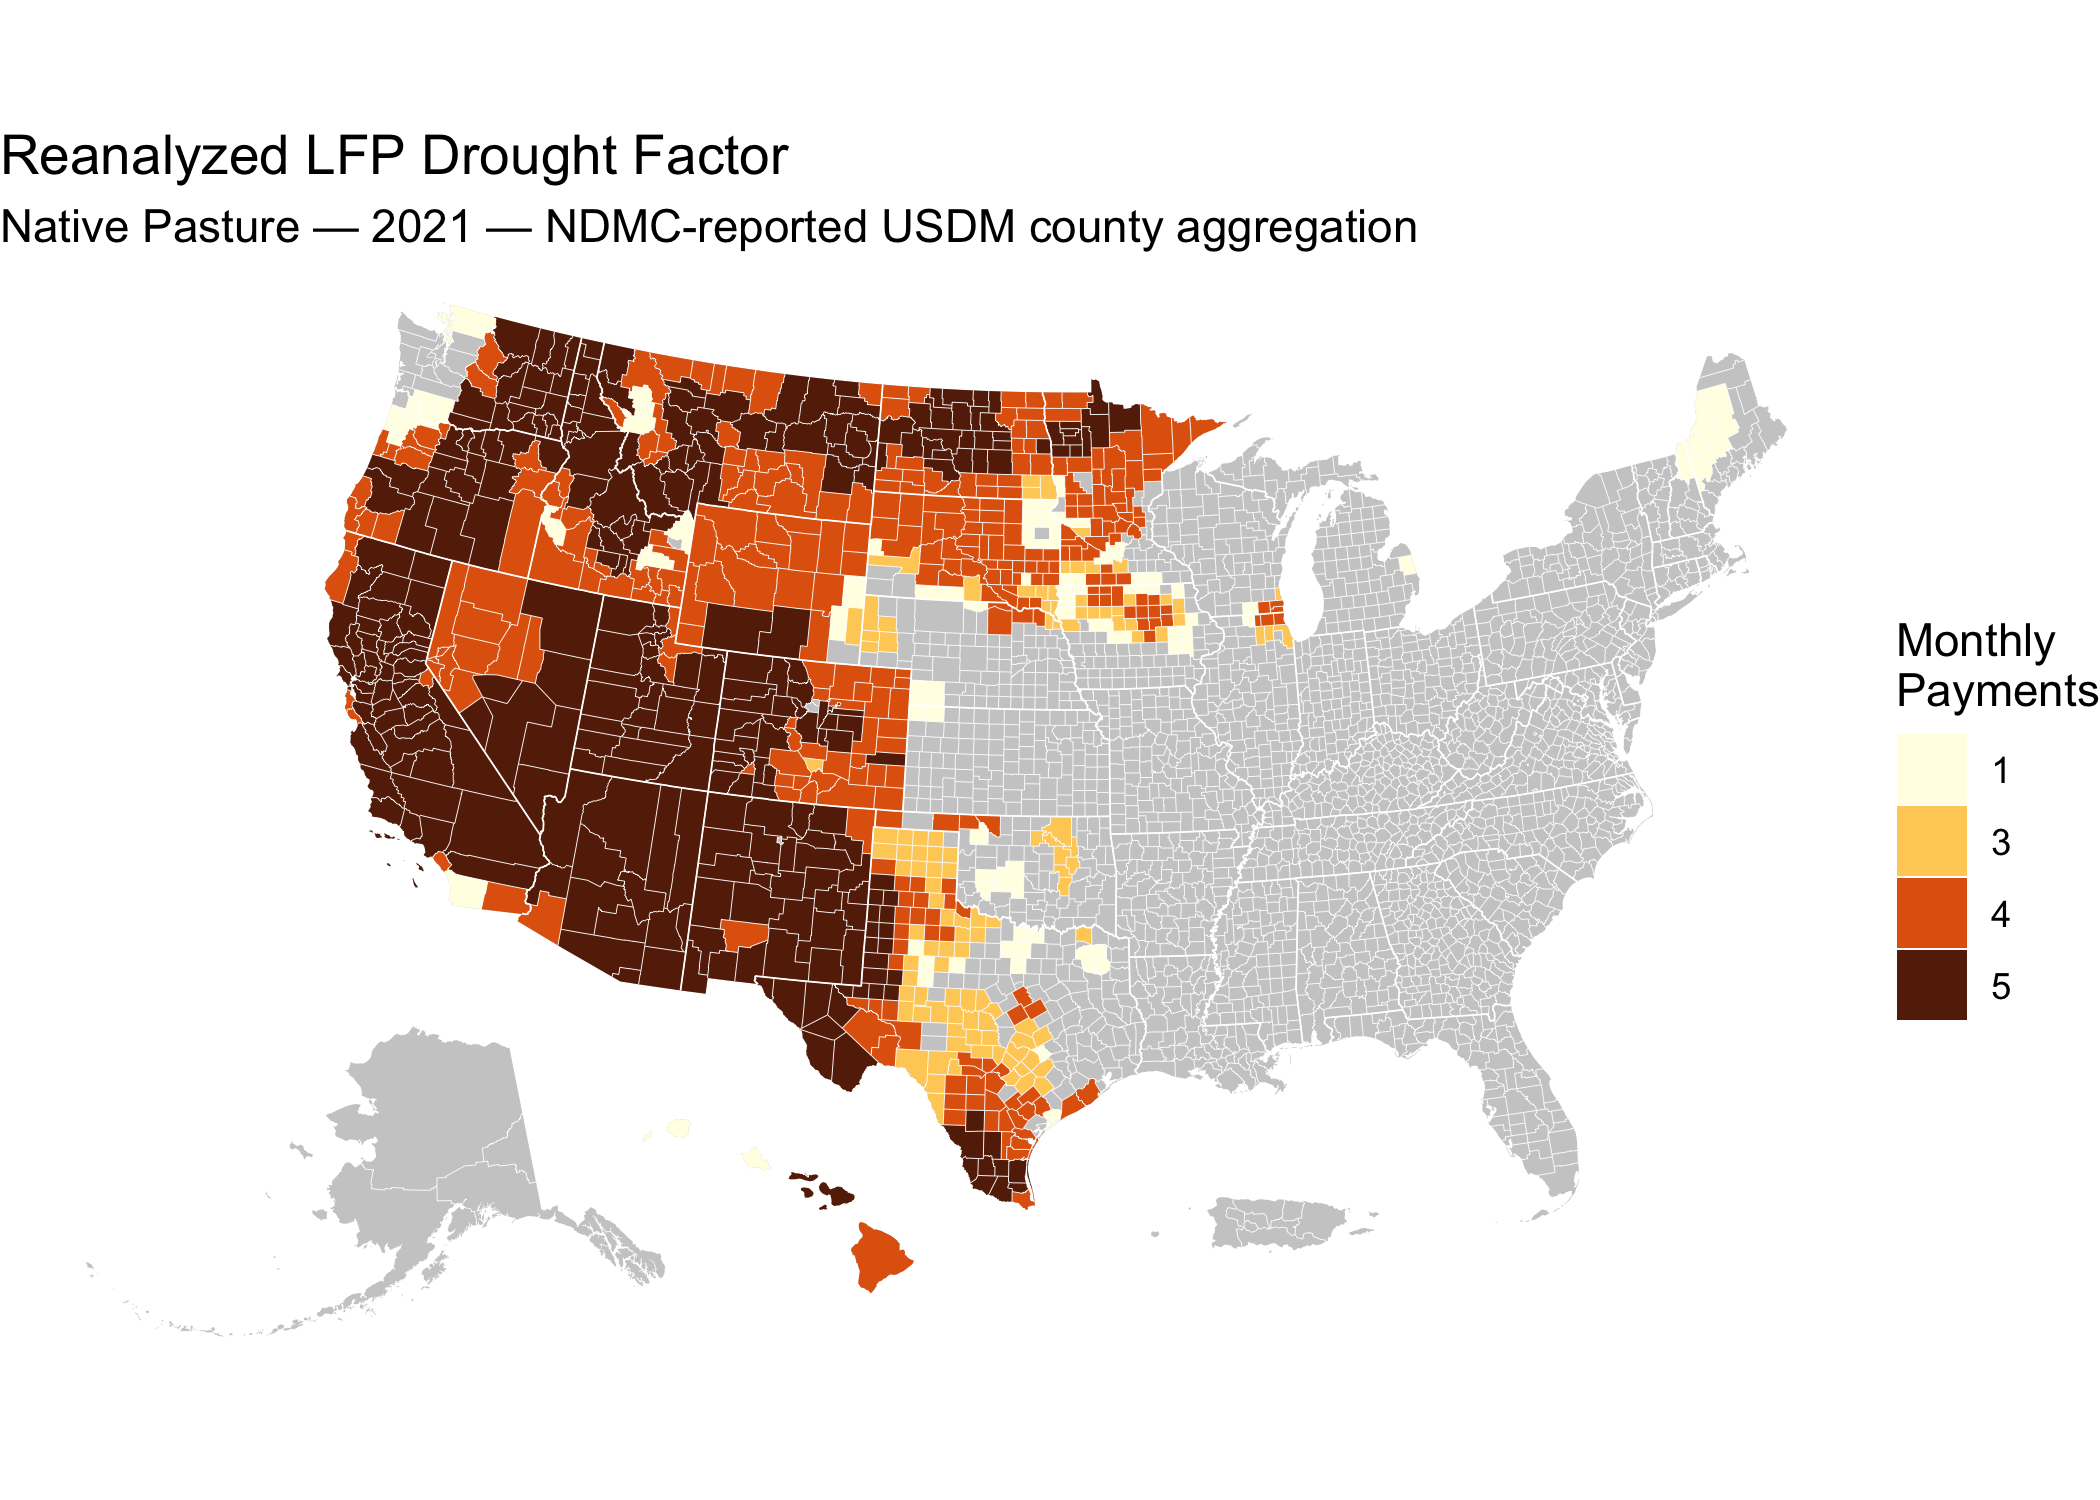
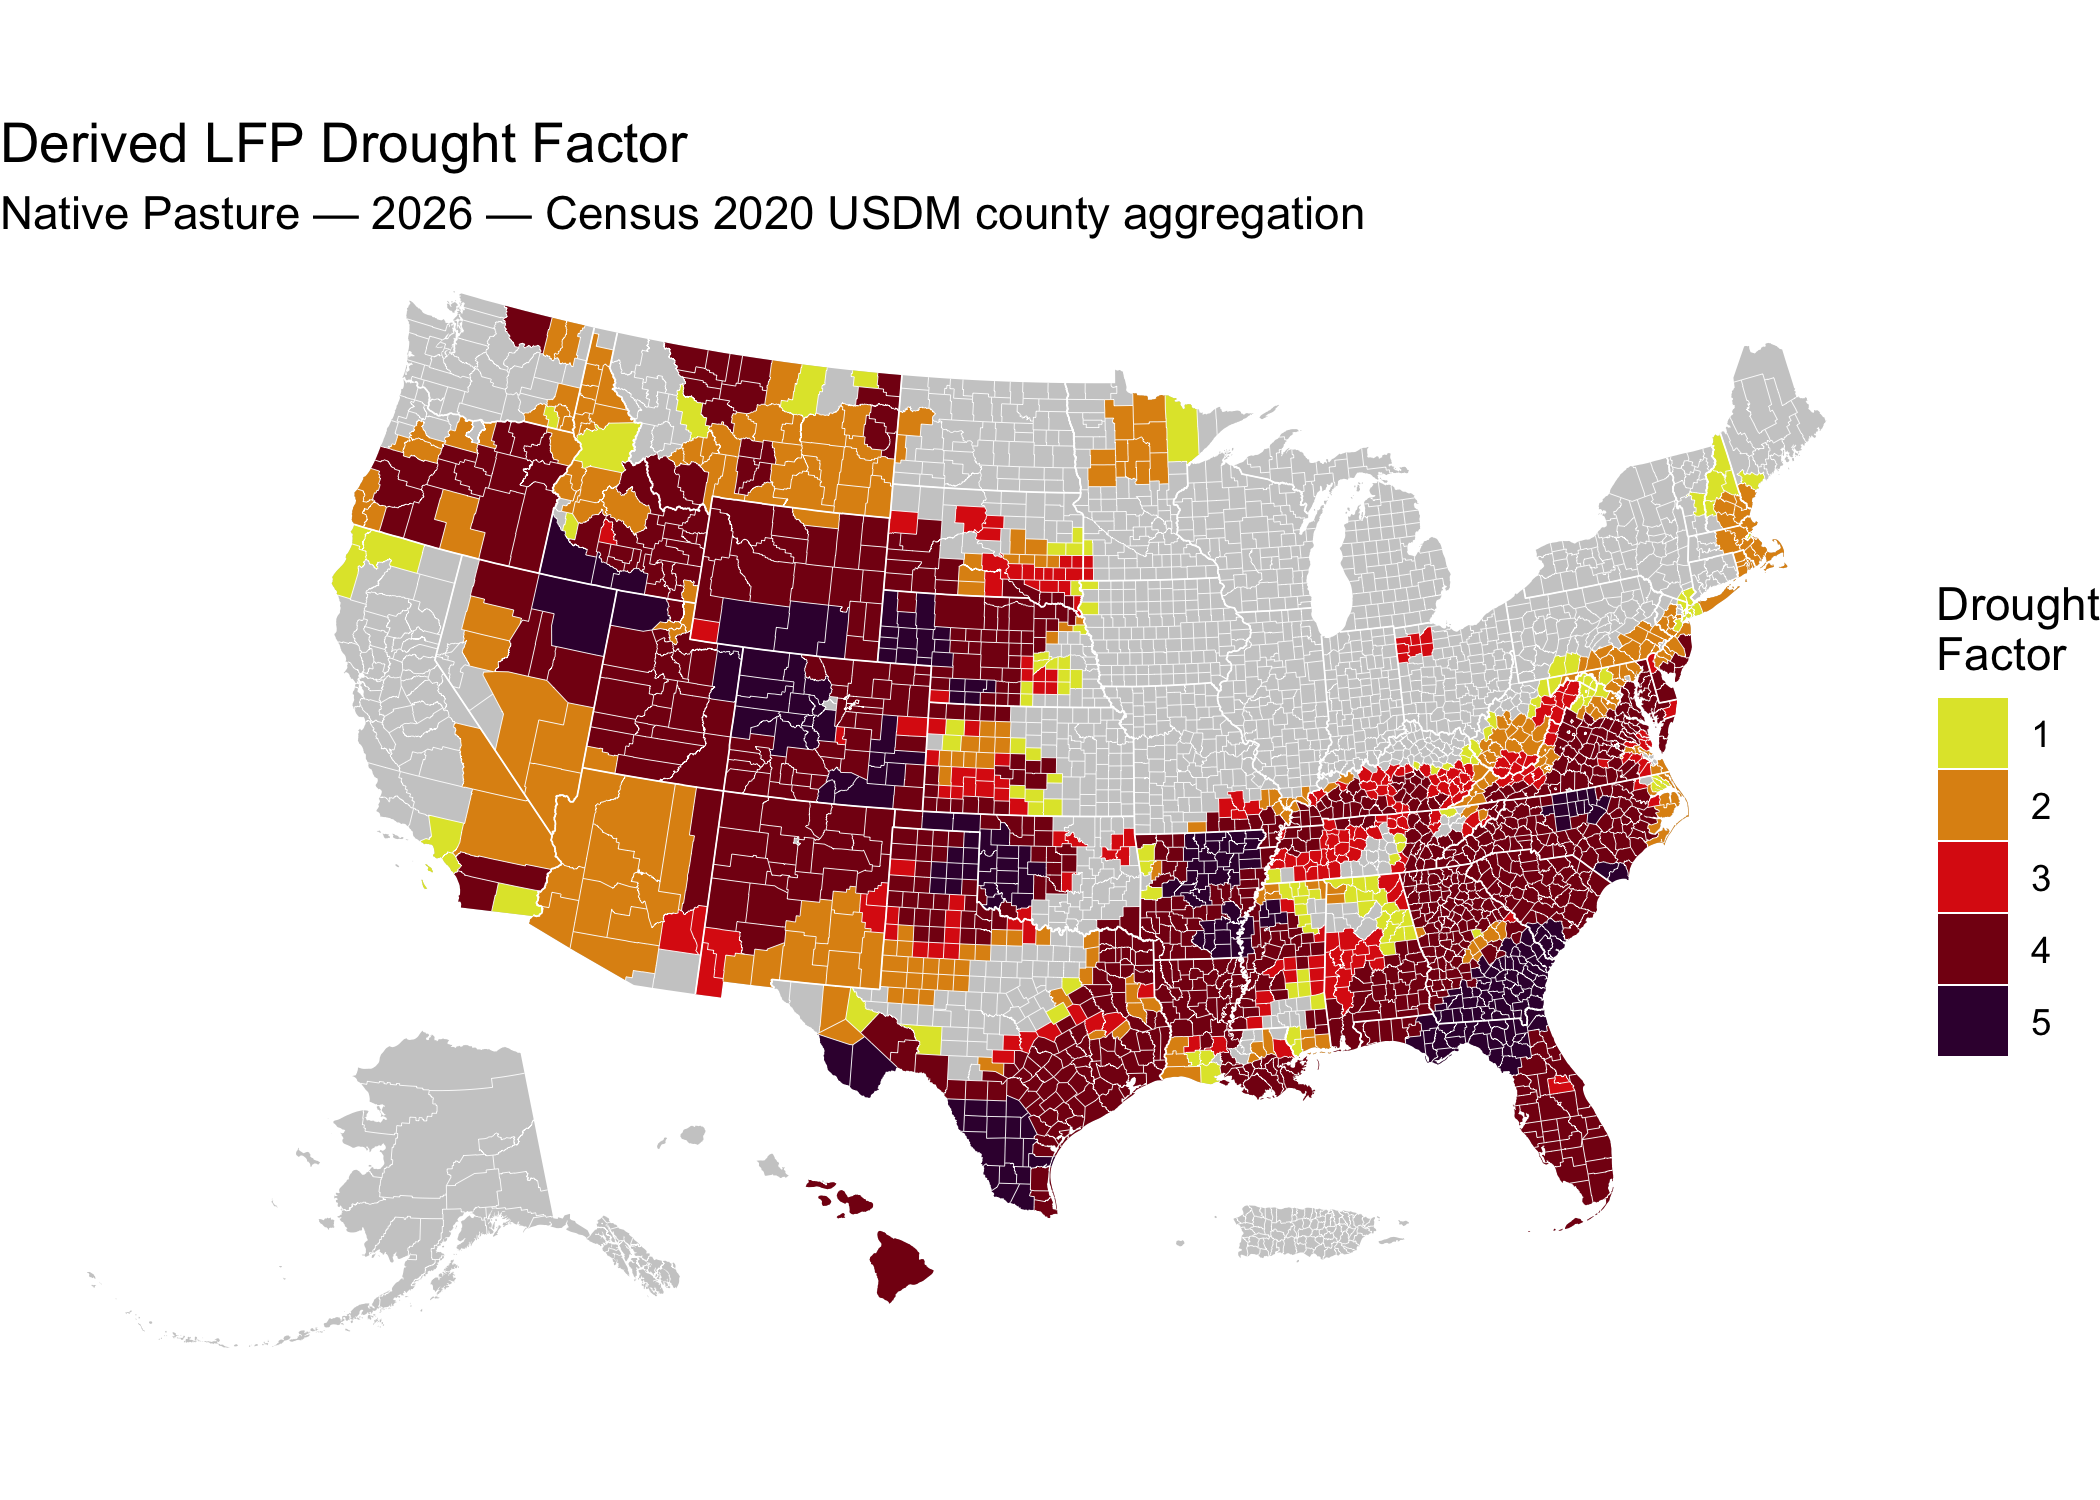
Map 2026 Native Pasture on Census boundaries in the README example
Replaces the 2021 NDMC-reported map drawn on FSA county geometry with the
2026 Native Pasture drought factor on Census 2020 boundaries, matching the
figure in fsa-lfp-eligibility: tigris county geometry with Alaska, Hawaii
and Puerto Rico shifted, FSA's own LFP colour ramp, and the same layer
order and theme.

Program year 2026 exercises the split D2 tier, so all five factors appear
including the 2-payment tier that exists only from 2026. Reducing to
Census county grain takes the highest factor across the FSA offices that
share a county -- the mirror of the reduction the previous example made,
and one of the rules the README describes.

The legend reads "Drought Factor" rather than "Payment Months": this
archive carries no Payment Factor, and the README is explicit that the
drought factor is not the payable amount.

Drops khroma from the workflow, since the new example uses
scale_fill_manual and nothing else in the repo needs it.

diff --git a/README.md b/README.md
@@ -383,37 +383,48 @@ the published URL
 # Load required libraries
 library(sf)
 library(ggplot2) # For plotting
+library(tigris)  # For county boundaries
 library(rmapshaper) # For innerlines function
 
 ## Get the derived eligibility data
 lfp <- arrow::read_parquet("fsa-lfp-eligibility-derived.parquet")
 
-## FSA county boundaries, already simplified and with Alaska and Hawaii inset
 counties <-
-  sf::read_sf(
-    "/vsicurl/https://data.sustainable-fsa.com/fsa-counties-dd22/fsa-counties-dd22.topojson",
-    layer = "counties"
+  tigris::counties(cb = TRUE,
+                   resolution = "5m",
+                   progress_bar = FALSE) |>
+  dplyr::filter(
+    !(STATE_NAME %in% c("Guam",
+                        "American Samoa",
+                        "United States Virgin Islands",
+                        "Commonwealth of the Northern Mariana Islands"))
   ) |>
-  sf::st_set_crs("EPSG:4326") |>
-  sf::st_transform("EPSG:5070")
+  sf::st_cast("POLYGON", warn = FALSE, do_split = TRUE) |>
+  tigris::shift_geometry() |>
+  dplyr::group_by(STATEFP, COUNTYFP) |>
+  dplyr::summarise(.groups = "drop") |>
+  sf::st_cast("MULTIPOLYGON")
 
-## The 2021 Native Pasture drought factor under the NDMC-reported aggregation,
-## reduced to FSA county grain by taking the highest factor across the Census
-## counties an FSA office covers. That `max()` is a choice — see above.
+## The 2026 Native Pasture drought factor on Census 2020 boundaries, reduced to
+## Census county grain by taking the highest factor across the FSA offices that
+## share a county. That `max()` is one of the reduction rules described above.
 lfp_counties <-
   lfp |>
   dplyr::filter(`Pasture Type` == "Native Pasture",
-                `Program Year` == 2021,
-                source == "usdm-counties-reported") |>
-  dplyr::group_by(id = `FSA County`) |>
+                `Program Year` == 2026,
+                source == "usdm-counties-census-2020") |>
+  dplyr::group_by(id = FIPS) |>
   dplyr::summarise(`Drought Factor` = max(`Drought Factor`),
                    .groups = "drop") |>
-  # An ordered factor, not an integer: the ladder skips 2 in this era, so a
-  # continuous scale would imply a tier that does not exist.
   dplyr::mutate(
-    `Drought Factor` = factor(`Drought Factor`, ordered = TRUE)
+    `Drought Factor` = factor(`Drought Factor`,
+                              levels = 1:5,
+                              ordered = TRUE)
   ) |>
-  dplyr::left_join(counties) |>
+  dplyr::left_join(
+    counties |>
+      dplyr::transmute(id = paste0(STATEFP, COUNTYFP))
+    ) |>
   sf::st_as_sf()
 
 # Plot the map
@@ -423,22 +434,31 @@ ggplot(counties) +
           color = NA) +
   geom_sf(data = lfp_counties,
           aes(fill = `Drought Factor`),
-          color = NA) +
+          color = NA,
+          show.legend = TRUE) +
   geom_sf(data = rmapshaper::ms_innerlines(counties),
           fill = NA,
           color = "white",
           linewidth = 0.1) +
   geom_sf(data = counties |>
-            dplyr::group_by(state) |>
+            dplyr::group_by(STATEFP) |>
             dplyr::summarise() |>
             rmapshaper::ms_innerlines(),
           fill = NA,
           color = "white",
           linewidth = 0.2) +
-  khroma::scale_fill_YlOrBr(discrete = TRUE,
-                            name = "Monthly\nPayments") +
-  labs(title = "Reanalyzed LFP Drought Factor",
-       subtitle = "Native Pasture — 2021 — NDMC-reported USDM county aggregation") +
+  # Use the same color scale used by the LFP
+  # https://www.fsa.usda.gov/documents/native-pasture-2024-lfp-01-23-25
+  scale_fill_manual(
+    values = c("1" = "#E0E436",
+               "2" = "#DF9114",
+               "3" = "#DD2313",
+               "4" = "#850014",
+               "5" = "#3B003C"),
+    drop = FALSE,
+    name = "Drought\nFactor") +
+  labs(title = "Derived LFP Drought Factor",
+       subtitle = "Native Pasture — 2026 — Census 2020 USDM county aggregation") +
   theme_void()
 ```
 
